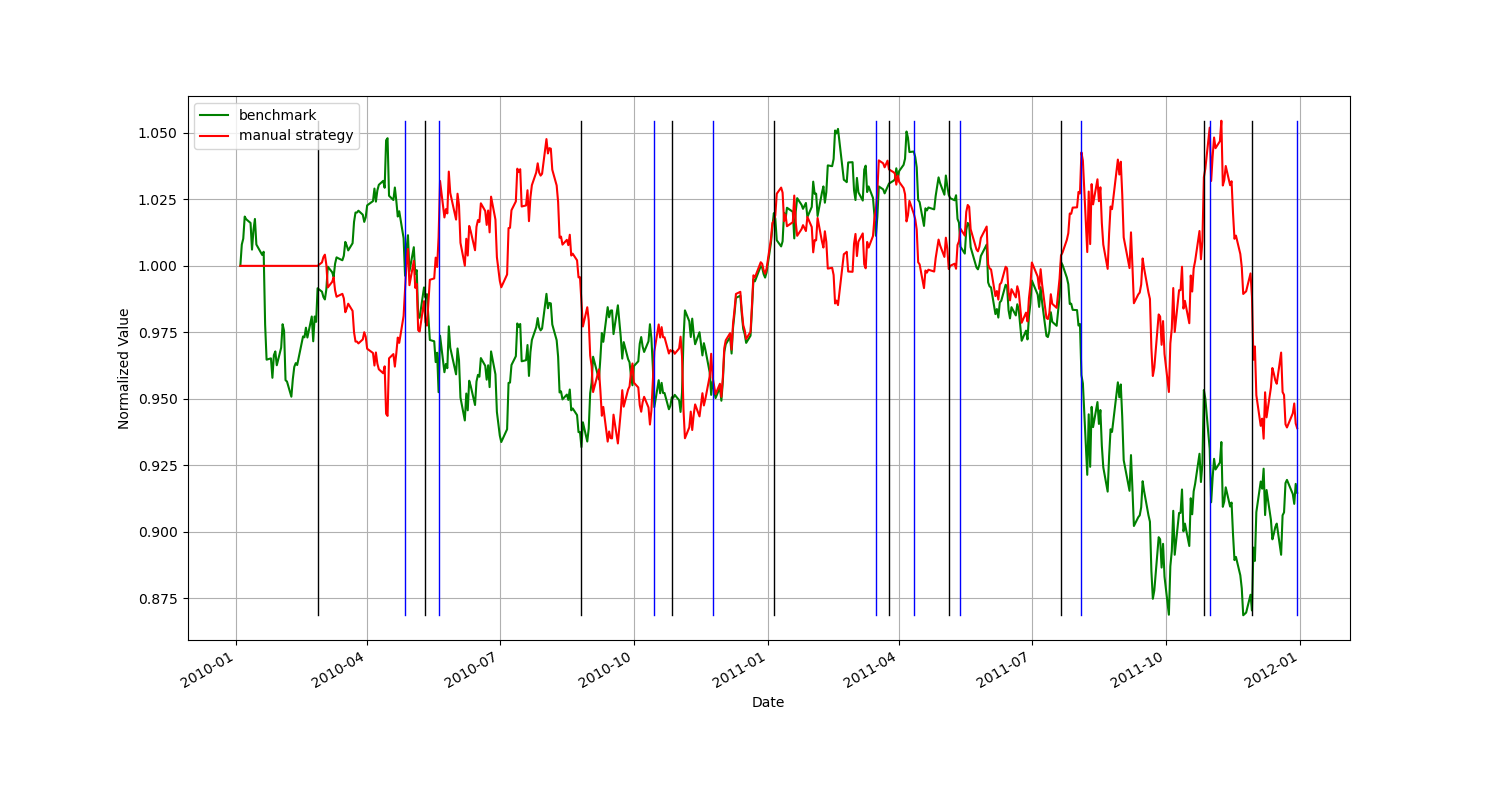
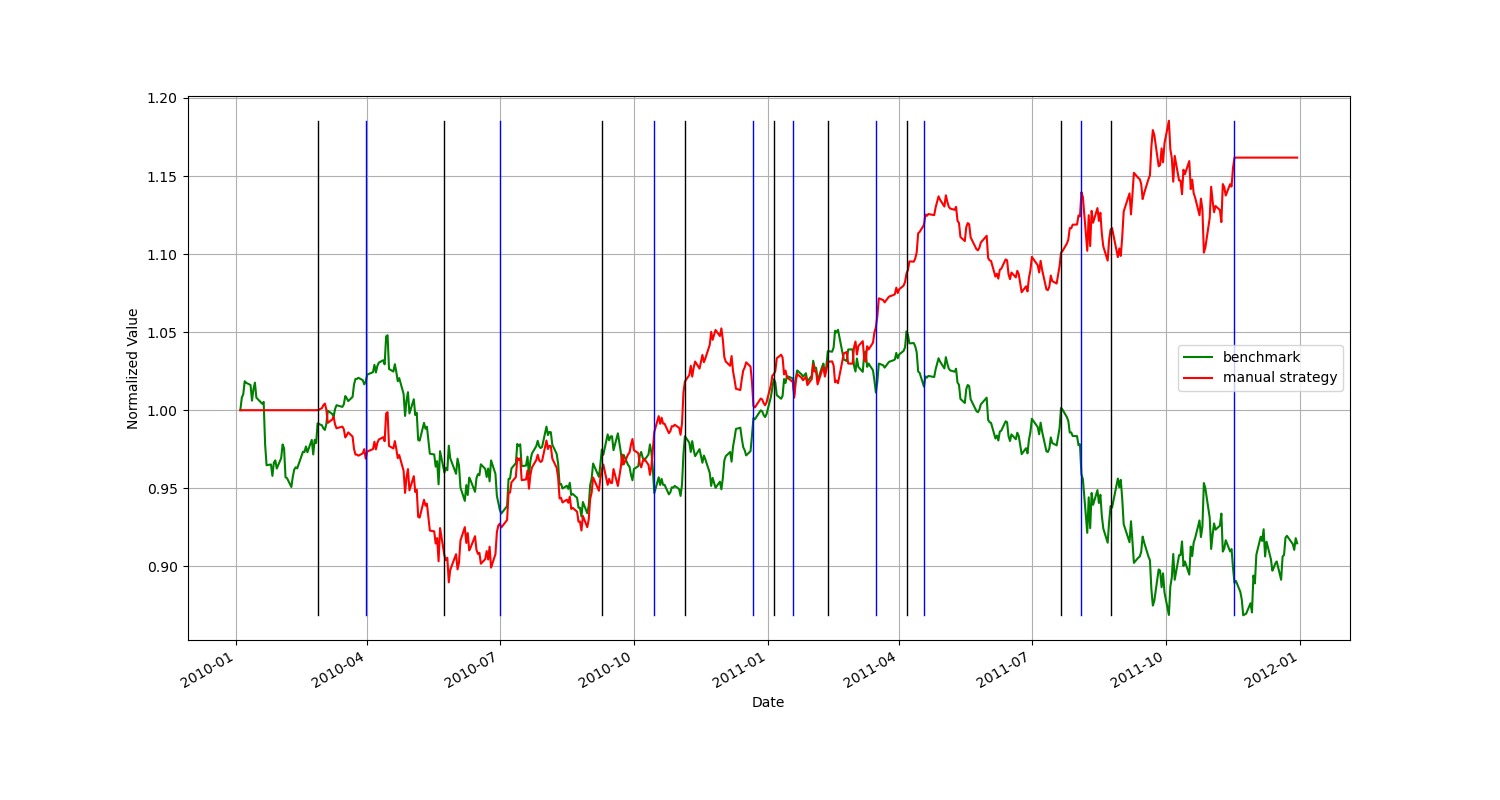
fixed manual strategy sma code

diff --git a/strategy_evaluation/ManualStrategy.py b/strategy_evaluation/ManualStrategy.py
@@ -43,11 +43,15 @@ class ManualStrategy:
     def get_signal(self, date, prev_date):
         signal = []
         # check SMA
-        if prev_date and prev_date in self.sma20['SMA'] and prev_date in self.sma50['SMA']:
-            if self.sma20['SMA'][prev_date] < self.sma50['SMA'][prev_date] and self.sma20['SMA'][date] > self.sma50['SMA'][date]:
-                signal.append(1)
-            if self.sma20['SMA'][prev_date] > self.sma50['SMA'][prev_date] and self.sma20['SMA'][date] < self.sma50['SMA'][date]:
-                signal.append(-1)
+        # if prev_date and prev_date in self.sma20['SMA'] and prev_date in self.sma50['SMA']:
+        #     if self.sma20['SMA'][prev_date] < self.sma50['SMA'][prev_date] and self.sma20['SMA'][date] > self.sma50['SMA'][date]:
+        #         signal.append(1)
+        #     if self.sma20['SMA'][prev_date] > self.sma50['SMA'][prev_date] and self.sma20['SMA'][date] < self.sma50['SMA'][date]:
+        #         signal.append(-1)
+        if self.sma20['SMA'][date] - self.sma50['SMA'][date] > 0.5:
+            signal.append(1)
+        elif self.sma20['SMA'][date] - self.sma50['SMA'][date] < -0.5:
+            signal.append(-1)
 
         # check Bollinger Band
         bbp = (self.price_data[self.sym][date] - self.bb_lower['bb_lower'][date]) / (self.bb_upper['bb_upper'][date] - self.bb_lower['bb_lower'][date])
